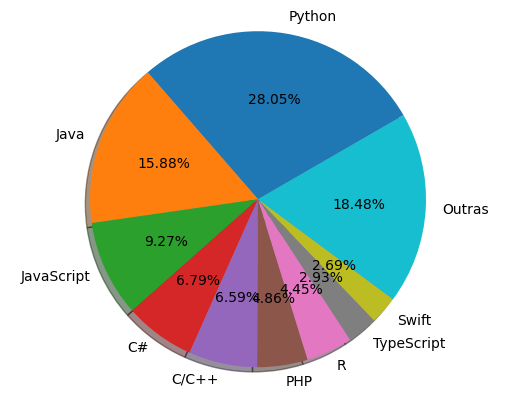
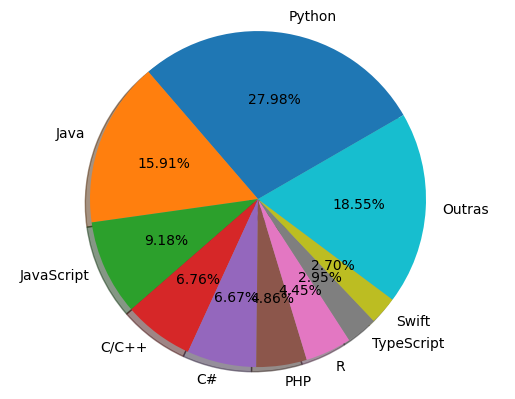
Build site at 2023-11-02 06:00:07 UTC

diff --git a/docs/popularidade/index.html b/docs/popularidade/index.html
@@ -1415,38 +1415,38 @@
     <tr>
       <td style="text-align: center">1</td>
       <td style="text-align: left">Python</td>
-      <td style="text-align: center">28.05</td>
-      <td style="text-align: center">+0.1</td>
+      <td style="text-align: center">27.99</td>
+      <td style="text-align: center">+0.0</td>
     </tr>
     <tr>
       <td style="text-align: center">2</td>
       <td style="text-align: left">Java</td>
-      <td style="text-align: center">15.88</td>
-      <td style="text-align: center">-1.0</td>
+      <td style="text-align: center">15.91</td>
+      <td style="text-align: center">-0.8</td>
     </tr>
     <tr>
       <td style="text-align: center">3</td>
       <td style="text-align: left">JavaScript</td>
-      <td style="text-align: center">9.27</td>
+      <td style="text-align: center">9.18</td>
       <td style="text-align: center">-0.3</td>
     </tr>
     <tr>
       <td style="text-align: center">4</td>
-      <td style="text-align: left">C#</td>
-      <td style="text-align: center">6.79</td>
-      <td style="text-align: center">-0.2</td>
+      <td style="text-align: left">C/C++</td>
+      <td style="text-align: center">6.76</td>
+      <td style="text-align: center">+0.2</td>
     </tr>
     <tr>
       <td style="text-align: center">5</td>
-      <td style="text-align: left">C/C++</td>
-      <td style="text-align: center">6.59</td>
-      <td style="text-align: center">+0.3</td>
+      <td style="text-align: left">C#</td>
+      <td style="text-align: center">6.67</td>
+      <td style="text-align: center">-0.3</td>
     </tr>
     <tr>
       <td style="text-align: center">6</td>
       <td style="text-align: left">PHP</td>
       <td style="text-align: center">4.86</td>
-      <td style="text-align: center">-0.4</td>
+      <td style="text-align: center">-0.3</td>
     </tr>
     <tr>
       <td style="text-align: center">7</td>
@@ -1457,32 +1457,32 @@
     <tr>
       <td style="text-align: center">8</td>
       <td style="text-align: left">TypeScript</td>
-      <td style="text-align: center">2.93</td>
+      <td style="text-align: center">2.95</td>
       <td style="text-align: center">+0.1</td>
     </tr>
     <tr>
       <td style="text-align: center">9</td>
       <td style="text-align: left">Swift</td>
-      <td style="text-align: center">2.69</td>
-      <td style="text-align: center">+0.7</td>
+      <td style="text-align: center">2.7</td>
+      <td style="text-align: center">+0.6</td>
     </tr>
     <tr>
       <td style="text-align: center">10</td>
       <td style="text-align: left">Objective-C</td>
-      <td style="text-align: center">2.29</td>
+      <td style="text-align: center">2.32</td>
       <td style="text-align: center">+0.2</td>
     </tr>
     <tr>
       <td style="text-align: center">11</td>
       <td style="text-align: left">Rust</td>
-      <td style="text-align: center">2.05</td>
-      <td style="text-align: center">+0.4</td>
+      <td style="text-align: center">1.98</td>
+      <td style="text-align: center">+0.3</td>
     </tr>
     <tr>
       <td style="text-align: center">12</td>
       <td style="text-align: left">Go</td>
-      <td style="text-align: center">1.95</td>
-      <td style="text-align: center">-0.1</td>
+      <td style="text-align: center">1.98</td>
+      <td style="text-align: center">-0.0</td>
     </tr>
     <tr>
       <td style="text-align: center">13</td>
@@ -1493,103 +1493,103 @@
     <tr>
       <td style="text-align: center">14</td>
       <td style="text-align: left">Matlab</td>
-      <td style="text-align: center">1.53</td>
-      <td style="text-align: center">+0.1</td>
+      <td style="text-align: center">1.6</td>
+      <td style="text-align: center">+0.0</td>
     </tr>
     <tr>
       <td style="text-align: center">15</td>
-      <td style="text-align: left">Ruby</td>
-      <td style="text-align: center">1.04</td>
-      <td style="text-align: center">-0.1</td>
-    </tr>
-    <tr>
-      <td style="text-align: center">16</td>
       <td style="text-align: left">Ada</td>
-      <td style="text-align: center">1.04</td>
+      <td style="text-align: center">1.02</td>
       <td style="text-align: center">+0.2</td>
     </tr>
     <tr>
-      <td style="text-align: center">17</td>
-      <td style="text-align: left">VBA</td>
-      <td style="text-align: center">0.94</td>
+      <td style="text-align: center">16</td>
+      <td style="text-align: left">Ruby</td>
+      <td style="text-align: center">1.0</td>
       <td style="text-align: center">-0.1</td>
     </tr>
     <tr>
-      <td style="text-align: center">18</td>
+      <td style="text-align: center">17</td>
       <td style="text-align: left">Dart</td>
-      <td style="text-align: center">0.9</td>
+      <td style="text-align: center">0.99</td>
       <td style="text-align: center">+0.1</td>
     </tr>
     <tr>
-      <td style="text-align: center">19</td>
+      <td style="text-align: center">18</td>
       <td style="text-align: left">Powershell</td>
-      <td style="text-align: center">0.89</td>
-      <td style="text-align: center">-0.0</td>
+      <td style="text-align: center">0.93</td>
+      <td style="text-align: center">+0.0</td>
+    </tr>
+    <tr>
+      <td style="text-align: center">19</td>
+      <td style="text-align: left">VBA</td>
+      <td style="text-align: center">0.93</td>
+      <td style="text-align: center">-0.1</td>
     </tr>
     <tr>
       <td style="text-align: center">20</td>
       <td style="text-align: left">Scala</td>
-      <td style="text-align: center">0.69</td>
-      <td style="text-align: center">-0.0</td>
+      <td style="text-align: center">0.62</td>
+      <td style="text-align: center">-0.1</td>
     </tr>
     <tr>
       <td style="text-align: center">21</td>
-      <td style="text-align: left">Visual Basic</td>
-      <td style="text-align: center">0.64</td>
+      <td style="text-align: left">Lua</td>
+      <td style="text-align: center">0.62</td>
       <td style="text-align: center">+0.0</td>
     </tr>
     <tr>
       <td style="text-align: center">22</td>
-      <td style="text-align: left">Lua</td>
-      <td style="text-align: center">0.6</td>
-      <td style="text-align: center">+0.0</td>
+      <td style="text-align: left">Abap</td>
+      <td style="text-align: center">0.58</td>
+      <td style="text-align: center">+0.1</td>
     </tr>
     <tr>
       <td style="text-align: center">23</td>
-      <td style="text-align: left">Abap</td>
-      <td style="text-align: center">0.6</td>
-      <td style="text-align: center">+0.1</td>
+      <td style="text-align: left">Visual Basic</td>
+      <td style="text-align: center">0.55</td>
+      <td style="text-align: center">-0.1</td>
     </tr>
     <tr>
       <td style="text-align: center">24</td>
       <td style="text-align: left">Julia</td>
-      <td style="text-align: center">0.33</td>
-      <td style="text-align: center">-0.1</td>
+      <td style="text-align: center">0.35</td>
+      <td style="text-align: center">-0.0</td>
     </tr>
     <tr>
       <td style="text-align: center">25</td>
       <td style="text-align: left">Groovy</td>
-      <td style="text-align: center">0.33</td>
+      <td style="text-align: center">0.31</td>
       <td style="text-align: center">-0.1</td>
     </tr>
     <tr>
       <td style="text-align: center">26</td>
-      <td style="text-align: left">Cobol</td>
-      <td style="text-align: center">0.25</td>
+      <td style="text-align: left">Perl</td>
+      <td style="text-align: center">0.31</td>
       <td style="text-align: center">-0.1</td>
     </tr>
     <tr>
       <td style="text-align: center">27</td>
       <td style="text-align: left">Haskell</td>
-      <td style="text-align: center">0.25</td>
+      <td style="text-align: center">0.27</td>
       <td style="text-align: center">-0.0</td>
     </tr>
     <tr>
       <td style="text-align: center">28</td>
-      <td style="text-align: left">Perl</td>
-      <td style="text-align: center">0.23</td>
+      <td style="text-align: left">Cobol</td>
+      <td style="text-align: center">0.25</td>
       <td style="text-align: center">-0.1</td>
     </tr>
     <tr>
       <td style="text-align: center">29</td>
       <td style="text-align: left">Delphi/Pascal</td>
-      <td style="text-align: center">0.17</td>
+      <td style="text-align: center">0.18</td>
       <td style="text-align: center">+0.2</td>
     </tr>
   </tbody>
 </table>
 
-<p class="small"><strong><em>Mundialmente em outubro de 2023, comparado a um ano antes</em></strong></p>
+<p class="small"><strong><em>Mundialmente em novembro de 2023, comparado a um ano antes</em></strong></p>
 
 
   
@@ -1597,7 +1597,7 @@
 
 <hr>
 <p class="small">
-  <i> Página atualizada em 24/10/23</i>
+  <i> Página atualizada em 02/11/23</i>
 </p>
 
 

diff --git a/docs/index.html b/docs/index.html
@@ -1436,7 +1436,7 @@
 
 </div>
 
-<p class="small"><strong><em>Última atualização: 24/10/2023 11:20:18</em></strong></p>
+<p class="small"><strong><em>Última atualização: 02/11/2023 03:00:03</em></strong></p>
 
 
 

diff --git a/material/sobre/01-introdução.md b/material/sobre/01-introdução.md
@@ -4,7 +4,7 @@ parent: sobre
 nav_order: 0
 tags: [introdução, pypl, python, popularity]
 permalink: /popularidade/
-timestamp: '24/10/23'
+timestamp: '02/11/23'
 ---
 
 Python é a linguagem mais popular e a que mais cresce mundialmente
@@ -18,35 +18,35 @@ O **índice PYPL** (*PopularitY of Programming Language*) é obtido analisando a
 
 | Posição	| Linguagem |	Fatia (%)	| Tendência (%) |
 |:-------:|:--------- |:-----:|:---------:|
-| 1 | Python |          28.05  | +0.1  |
-| 2 | Java |          15.88  | -1.0  |
-| 3 | JavaScript |          9.27  | -0.3  |
-| 4 | C# |          6.79  | -0.2  |
-| 5 | C/C++ |          6.59  | +0.3  |
-| 6 | PHP |          4.86  | -0.4  |
+| 1 | Python |          27.99  | +0.0  |
+| 2 | Java |          15.91  | -0.8  |
+| 3 | JavaScript |          9.18  | -0.3  |
+| 4 | C/C++ |          6.76  | +0.2  |
+| 5 | C# |          6.67  | -0.3  |
+| 6 | PHP |          4.86  | -0.3  |
 | 7 | R |          4.45  | +0.4  |
-| 8 | TypeScript |          2.93  | +0.1  |
-| 9 | Swift |          2.69  | +0.7  |
-| 10 | Objective-C |          2.29  | +0.2  |
-| 11 | Rust |          2.05  | +0.4  |
-| 12 | Go |          1.95  | -0.1  |
+| 8 | TypeScript |          2.95  | +0.1  |
+| 9 | Swift |          2.7  | +0.6  |
+| 10 | Objective-C |          2.32  | +0.2  |
+| 11 | Rust |          1.98  | +0.3  |
+| 12 | Go |          1.98  | -0.0  |
 | 13 | Kotlin |          1.76  | -0.1  |
-| 14 | Matlab |          1.53  | +0.1  |
-| 15 | Ruby |          1.04  | -0.1  |
-| 16 | Ada |          1.04  | +0.2  |
-| 17 | VBA |          0.94  | -0.1  |
-| 18 | Dart |          0.9  | +0.1  |
-| 19 | Powershell |          0.89  | -0.0  |
-| 20 | Scala |          0.69  | -0.0  |
-| 21 | Visual Basic |          0.64  | +0.0  |
-| 22 | Lua |          0.6  | +0.0  |
-| 23 | Abap |          0.6  | +0.1  |
-| 24 | Julia |          0.33  | -0.1  |
-| 25 | Groovy |          0.33  | -0.1  |
-| 26 | Cobol |          0.25  | -0.1  |
-| 27 | Haskell |          0.25  | -0.0  |
-| 28 | Perl |          0.23  | -0.1  |
-| 29 | Delphi/Pascal |          0.17  | +0.2  |
+| 14 | Matlab |          1.6  | +0.0  |
+| 15 | Ada |          1.02  | +0.2  |
+| 16 | Ruby |          1.0  | -0.1  |
+| 17 | Dart |          0.99  | +0.1  |
+| 18 | Powershell |          0.93  | +0.0  |
+| 19 | VBA |          0.93  | -0.1  |
+| 20 | Scala |          0.62  | -0.1  |
+| 21 | Lua |          0.62  | +0.0  |
+| 22 | Abap |          0.58  | +0.1  |
+| 23 | Visual Basic |          0.55  | -0.1  |
+| 24 | Julia |          0.35  | -0.0  |
+| 25 | Groovy |          0.31  | -0.1  |
+| 26 | Perl |          0.31  | -0.1  |
+| 27 | Haskell |          0.27  | -0.0  |
+| 28 | Cobol |          0.25  | -0.1  |
+| 29 | Delphi/Pascal |          0.18  | +0.2  |
 
-***Mundialmente em outubro de 2023, comparado a um ano antes***
+***Mundialmente em novembro de 2023, comparado a um ano antes***
 {: .small}
